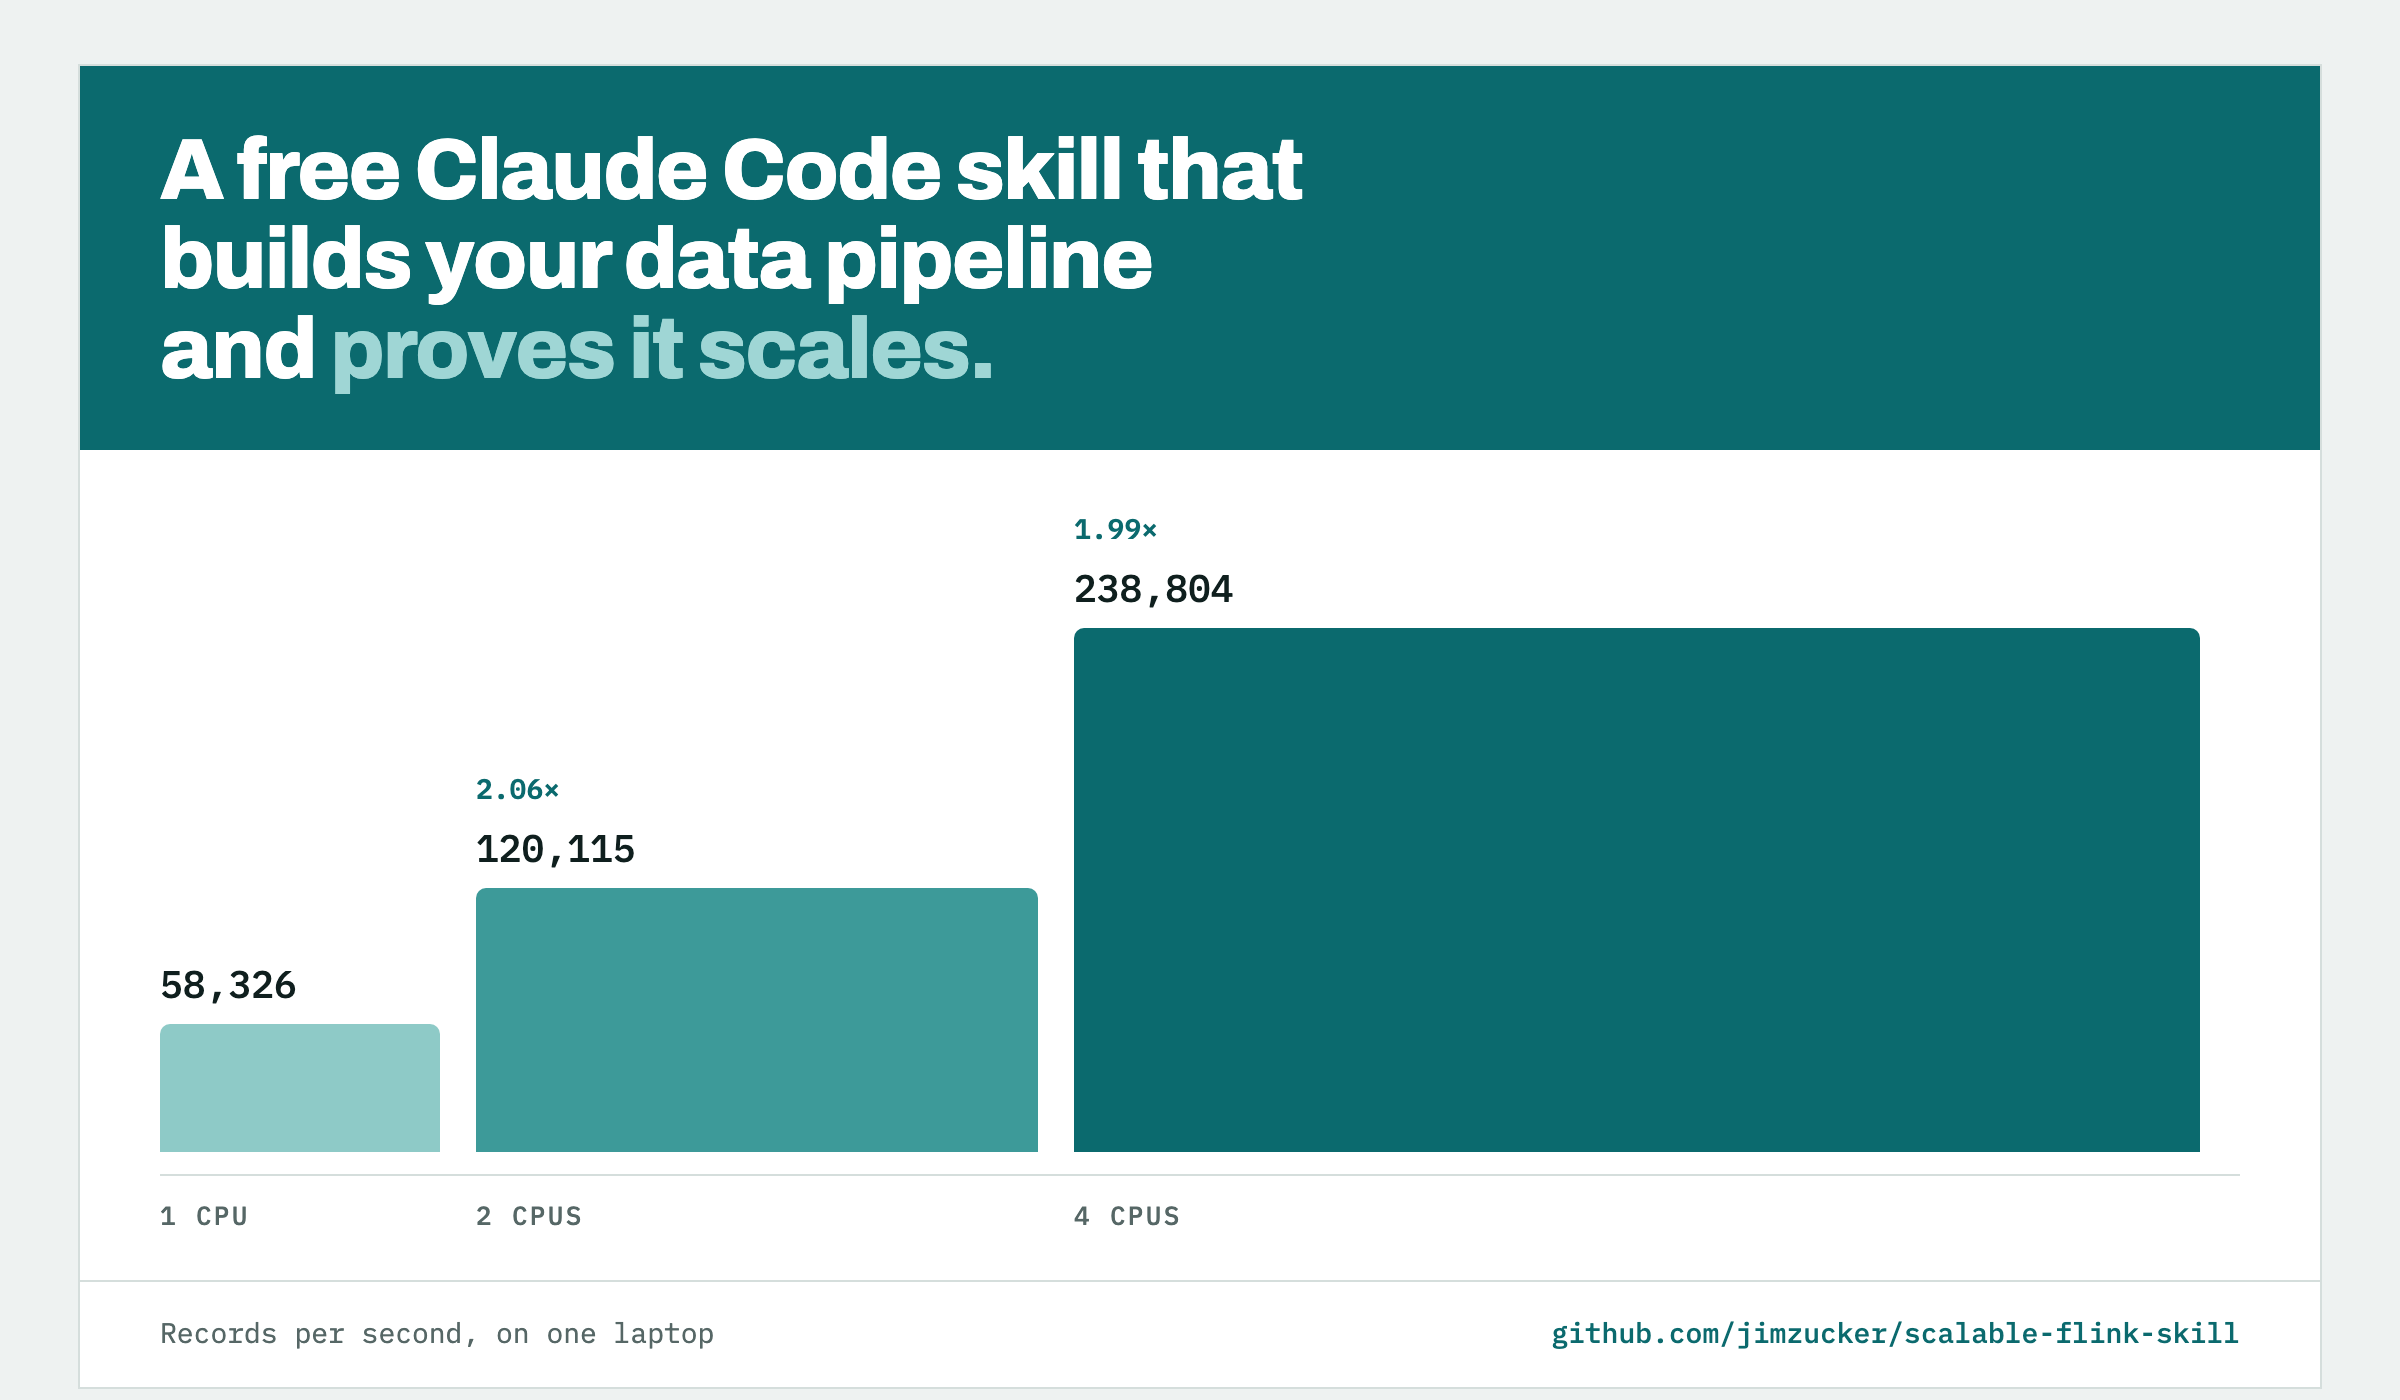
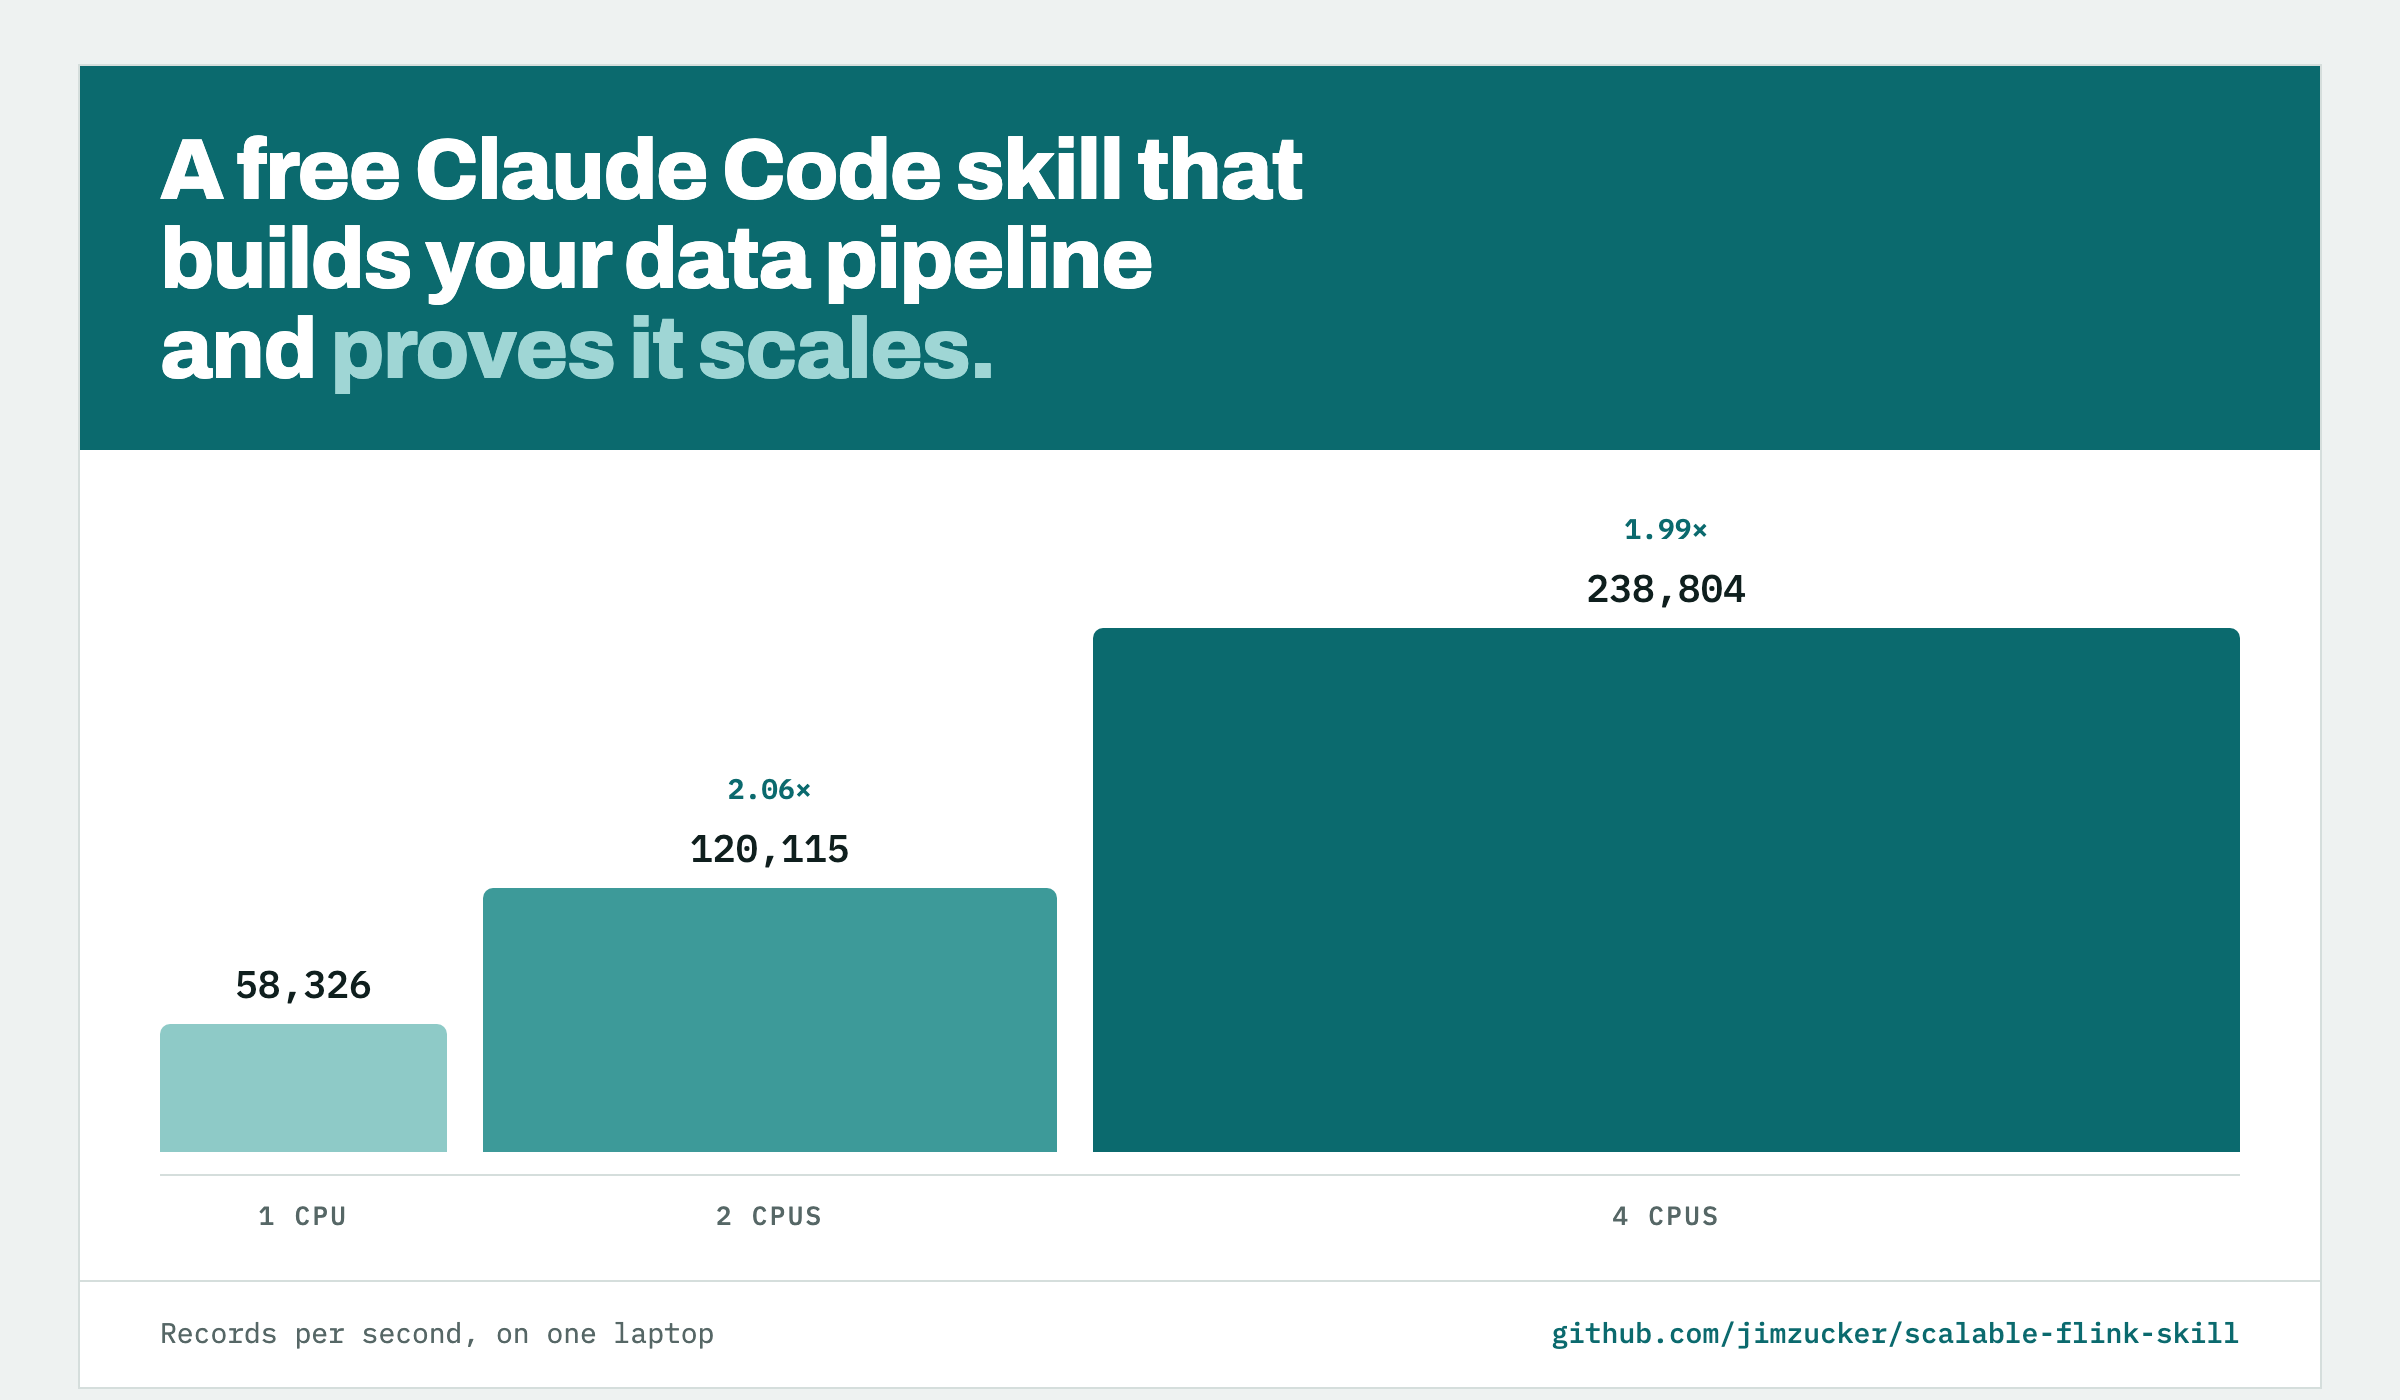
card: centre the labels, and stop the axis labels wrapping
Matches flink-training's copy.

diff --git a/docs/card.html b/docs/card.html
@@ -57,7 +57,7 @@
   .result{padding:30px clamp(24px,3.4vw,40px) 24px}
 
   .plot{display:flex;align-items:flex-end;gap:18px}
-  .col-bar{display:flex;flex-direction:column;justify-content:flex-end;gap:8px}
+  .col-bar{display:flex;flex-direction:column;justify-content:flex-end;align-items:center;gap:8px;min-width:0}
   .chip{
     font-family:var(--mono);
     font-size:14px;
@@ -74,7 +74,7 @@
     color:var(--ink);
     white-space:nowrap;
   }
-  .bar{border-radius:5px 5px 0 0}
+  .bar{width:100%;border-radius:5px 5px 0 0}
 
   .axis{
     display:flex;
@@ -84,12 +84,16 @@
     border-top:1px solid var(--rule);
   }
   .axis div{
+    min-width:0;
     font-family:var(--mono);
-    font-size:13px;
+    /* the columns shrink with the bars; the label must not wrap when they do */
+    font-size:clamp(10px,1.2vw,13px);
     font-weight:500;
     letter-spacing:.09em;
     text-transform:uppercase;
     color:var(--muted);
+    white-space:nowrap;
+    text-align:center;
   }
 
   .foot{
@@ -115,17 +119,17 @@
 
   <section class="result">
     <div class="plot">
-      <div class="col-bar" style="width:140px">
+      <div class="col-bar" style="flex:1">
         <span class="chip">&nbsp;</span>
         <span class="val">58,326</span>
         <div class="bar" style="height:64px;background:var(--b1)"></div>
       </div>
-      <div class="col-bar" style="width:281px">
+      <div class="col-bar" style="flex:2">
         <span class="chip">2.06&times;</span>
         <span class="val">120,115</span>
         <div class="bar" style="height:132px;background:var(--b2)"></div>
       </div>
-      <div class="col-bar" style="width:563px">
+      <div class="col-bar" style="flex:4">
         <span class="chip">1.99&times;</span>
         <span class="val">238,804</span>
         <div class="bar" style="height:262px;background:var(--b3)"></div>
@@ -133,9 +137,9 @@
     </div>
 
     <div class="axis">
-      <div style="width:140px">1 CPU</div>
-      <div style="width:281px">2 CPUs</div>
-      <div style="width:563px">4 CPUs</div>
+      <div style="flex:1">1 CPU</div>
+      <div style="flex:2">2 CPUs</div>
+      <div style="flex:4">4 CPUs</div>
     </div>
   </section>
 
